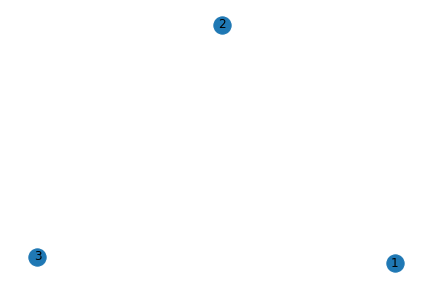
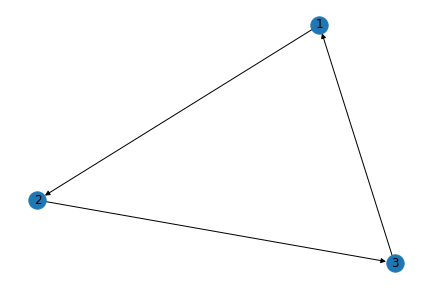
better styling and formatting

diff --git a/src/projects/networkAnalysis/ts/app.tsx b/src/projects/networkAnalysis/ts/app.tsx
@@ -22,76 +22,76 @@ import VisualCard from '@Main/projects/networkAnalysis/ts/visualcard';
 class Main extends React.Component {
 
   render() {
-    const mainFeaturedPost = {
-      title: 'Network Analysis',
-      description:
-        "A Beginner's Guide To What It Is, How To Implement, and Why It Matters",
-      image: 'https://miro.medium.com/max/4800/1*bgVMjq95tEVbBKYqL7AGxA.png',
-      imgText: 'main image description',
-    };
-
     const textPosts = [
       {
         title: 'What is a Node?',
         code: 'import networkx as nx \n import matplotlib.pyplot as plt \n g = nx.Graph() \n g.add_node(1) \n nx.draw(g)',
         image: node,
-        description: 'A node (or vertex) is the most fundamental unit on which graphs are based. In graph theory, they may also be referred to as "point", "junction", or "0 - simplex". This single datapoint could be interpreted in different ways depending on the context. If you were to consider a network of the human race, each node would be a person. For the network of webpages on the world wide web, each node would be a webpage. A node could also represent a single train station in a somewhat complex railway network. It is important to note that while we typically consider a node to be the fundamental unit of graphs, each node itself could contain a lot of information. In a social network, where each node represents a person, each node is a user profile comprised of data about the user\'s gender, age, contact information, their preferences, and other information they have made public.',
+        description: <Typography><b>Technical Description</b><br />A node (or vertex) is the most fundamental unit on which graphs are based. In graph theory, they may also be referred to as "point", "junction", or "0 - simplex". <br /><br /><b>Real-World Relevance</b><br />This single datapoint could be interpreted in different ways depending on the context. If you were to consider a network of the human race, each node would be a person. For the network of webpages on the world wide web, each node would be a webpage. A node could also represent a single train station in a somewhat complex railway network. It is important to note that while we typically consider a node to be the fundamental unit of graphs, each node itself could contain a lot of information. In a social network, where each node represents a person, each node is a user profile comprised of data about the user's gender, age, contact information, their preferences, and other information they have made public.</Typography>,
       },
       {
         title: 'Edges',
         code: 'g_directed = nx.DiGraph() \n g_directed.add_edge(1, 2) \n g_directed.add_edge(2, 3) \n nx.draw(g_directed, with_labels = True,)',
         image: directedge,
-        description: 'The links with which two nodes are connected to each other are called edges. In this case, for example, there are 3 nodes and 2 edges (one connects Node 1 and Node 2, and the other connects Node 2 and Node 3). The nodes that an edge connects are called neighbors. Note that Node 1 and Node 3 aren\'t neighbors with each other here. Broadly, we can have either undirected or directed graphs based on the context. In directed graphs, a node connects to another with a directed edge, indicating an asymmetric relationship. ',
+        description: <Typography><b>Technical Description</b><br />The links with which two nodes are connected to each other are called edges. In this case, for example, there are 3 nodes and 2 edges (one connects Node 1 and Node 2, and the other connects Node 2 and Node 3). The nodes that an edge connects are called <b>neighbors</b>. Note that Node 1 and Node 3 aren't neighbors with each other here. Broadly, we can have either <b>undirected</b> or <b>directed</b> graphs based on the context. In directed graphs (to the right), a node connects to another with a <b>directed edge</b>, indicating an asymmetric relationship.</Typography>,
       },
+
       {
-        title: 'Edges',
+        title: '',
         code: 'g.add_edge(1, 2) \n g.add_edge(2, 3) \n nx.draw(g, with_labels = True)',
         image: edge,
-        description: 'In the case of undirected graphs, an undirected edge implies a symmetric relationship between the two nodes it connects.An edge implies a relationship between the two entities, which are repsented by nodes. In a social network, for example, an edge could imply a connection between two people. The nuance of directed and undirected graphs gives us a convenient way to represent more complex information. For example, a directed graph would be more fitting if we were to represent a genealogy network - we can then direct edges from ancestors to their successors (since it is somewhat an asymmetric relationship). Even a social network, which you would typically represent as an undirected graph, could be represented as a directed graph if you were to consider who sent whom the friend/follow request first - this would add another interesting dimension to the problem.',
+        description: <Typography>In the case of undirected graphs (to the right), an undirected edge implies a symmetric relationship between the two nodes it connects.<br /><br /><b>Real-World Relevance</b><br />An edge implies a relationship between the two entities, which are repsented by nodes. In a social network, for example, an edge could imply a connection between two people. The nuance of directed and undirected graphs gives us a convenient way to represent more complex information. For example, a directed graph would be more fitting if we were to represent a genealogy network - we can then direct edges from ancestors to their successors (since it is somewhat an asymmetric relationship). Even a social network, which you would typically represent as an undirected graph, could be represented as a directed graph if you were to consider who sent whom the friend/follow request first - this would add another interesting dimension to the problem.</Typography>,
       },
       {
         title: 'Paths, Cycles, Connectivity',
         code: 'nx.draw(g, with_labels = True)',
         image: edge,
-        description: 'Path: A path is a sequence of nodes where "each consecutive pair in the sequence is connected with an edge" (Easley and Kleinberg, 2010). Broadly, if a path does not repeat any nodes, it is called a simple path. If it doesn\'t repeat any nodes, it is a non-simple path. In graph theory, a path is a trail in which all vertices (and edges) are distinct. In our example, there is a clear path from 1 to 3, and from 3 to 1 (via 2).',
+        description: <Typography><b>Technical Description</b><br /><b>Path:</b> A path is a sequence of nodes where "each consecutive pair in the sequence is connected with an edge" (Easley and Kleinberg, 2010). Broadly, if a path does not repeat any nodes, it is called a <b>simple path</b>. If it doesn't repeat any nodes, it is a <b>non-simple path</b>. In graph theory, a path is a trail in which all vertices (and edges) are distinct. In our example, there is a clear path from 1 to 3, and from 3 to 1 (via 2).</Typography>,
       },
       {
-        title: 'Paths, Cycles, Connectivity',
+        title: '',
         code: 'g_directed = nx.DiGraph() \n g_directed.add_edge(1, 2) \n g_directed.add_edge(2, 3) \n g_directed.add_edge(3, 1) \n nx.draw(g_directed, with_labels = True,)',
         image: cycle,
-        description: 'Cycle: A cycle is a non-simple path with "at-least three edges, in which the first and last nodes are the same, but otherwise all nodes are distinct" (Easley and Kleinberg, 2010). A cycle graph is a graph of a cycle which has no repeated vertices and edges (a simple cycle). The given visualization is an example of a cycle graph.',
+        description: <Typography><b>Cycle:</b> A cycle is a non-simple path with "at-least three edges, in which the first and last nodes are the same, but otherwise all nodes are distinct" (Easley and Kleinberg, 2010). A <b>cycle graph</b> is a graph of a cycle which has no repeated vertices and edges (a simple cycle). The given visualization is an example of a cycle graph.</Typography>,
       },
       {
-        title: 'Paths, Cycles, Connectivity',
+        title: '',
         code: 'g_dag = nx.DiGraph() \n g_dag.add_edge(1, 2) \n g_dag.add_edge(2, 3) \n g_dag.add_edge(3, 4) \n nx.draw(g_dag, with_labels = True,)',
         image: dag,
-        description: 'A commonly-used concept is Directed Acyclical Graph (DAG), which is what the name implies - a graph that is acyclical in nature (does not have the same first and last nodes) and has directed edges. The given visualization represents a simple DAG with four nodes (1, 2, 3, 4). Connectivity: A graph is said to be connected "if for every pair of nodes, there is a path between them" (Easley and Kleinberg, 2010). In other words, there is a way to get from each node to each other node (regardless of how simple or complex that route may be). Paths and connectivity could be understood together. If we wanted to see if two nodes are connected, we could check if there exists a path between them. Consider the case of a police chasing a criminal on the run - traditionally, they would not be connected with the criminal and their job is to find a path (the shortest, most efficient one) to the criminal. They would conduct an investigation, find who are closest to the criminal (the end node), and trace back connections to one they could directly inquire. As soon as they find a link with the criminal, they are then connected to the criminal in the sense of a network, and can pursue the path. In short, unless they are connected to the end node, they do not have a viable path to pursue. Directed acylical graphs are also easy to understand in context of your daily lives. For example, consider what you have done today - likely, you brushed your teeth after you woke up, after which you probably (hopefully) had breakfast. This can be represented as a DAG, since each subsequent event (or node) has a dependency on the previous one. You can only brush your teeth after you woke up, and so you would draw a directed edge from "waking up" to "brushing teeth".',
+        description: <Typography>A commonly-used concept is <b>Directed Acyclical Graph (DAG)</b>, which is what the name implies - a graph that is acyclical in nature (does not have the same first and last nodes) and has directed edges. The given visualization represents a simple DAG with four nodes (1, 2, 3, 4). <b>Connectivity:</b> A graph is said to be <b>connected</b> "if for every pair of nodes, there is a path between them" (Easley and Kleinberg, 2010). In other words, there is a way to get from each node to each other node (regardless of how simple or complex that route may be). <br /><br /><b>Real-World Relevance</b><br />Paths and connectivity could be understood together. If we wanted to see if two nodes are connected, we could check if there exists a path between them. Consider the case of a police chasing a criminal on the run - traditionally, they would not be connected with the criminal and their job is to find a path (the shortest, most efficient one) to the criminal. They would conduct an investigation, find who are closest to the criminal (the end node), and trace back connections to one they could directly inquire. As soon as they find a link with the criminal, they are then connected to the criminal in the sense of a network, and can pursue the path. In short, unless they are connected to the end node, they do not have a viable path to pursue. Directed acylical graphs are also easy to understand in context of your daily lives. For example, consider what you have done today - likely, you brushed your teeth after you woke up, after which you probably (hopefully) had breakfast. This can be represented as a DAG, since each subsequent event (or node) has a dependency on the previous one. You can only brush your teeth after you woke up, and so you would draw a directed edge from "waking up" to "brushing teeth".</Typography>,
       },
       {
         title: 'Distance of Six Degrees of Separation',
         code: 'nx.draw(g, with_labels = True)',
         image: edge,
-        description: 'Distance: The distance between any two nodes in a graph is the "length of the shortest path between them" (Easley and Kleinberg, 2010). In our example, there the distance from node 1 to node 3 is 2. Sometimes, however, graphs are more complex and it is harder to compute the distance - this is where Breadth First Search and Depth First Search are useful. As the access to internet improves worldwide, the world is more connected than ever. Therefore, the idea of "six degrees of separation" is more relevant than ever. This idea states that all people are at-most six social connections away from each other. While the notion grew out of Stanley Milgram\'s work in the 1960s, a lot of work has been done on the subject since.',
+        description: <Typography><b>Technical Description</b><br /><b>Distance:</b> The distance between any two nodes in a graph is the "length of the shortest path between them" (Easley and Kleinberg, 2010). In our example, there the distance from node 1 to node 3 is 2. Sometimes, however, graphs are more complex and it is harder to compute the distance - this is where <b>Breadth First Search</b> and <b>Depth First Search</b> are useful. <br /><br /> <b>Real-World Relevance</b><br />As the access to internet improves worldwide, the world is more connected than ever. Therefore, the idea of <b>"six degrees of separation"</b> is more relevant than ever. This idea states that all people are at-most six social connections away from each other. While the notion grew out of Stanley Milgram's work in the 1960s, <a href="https://hbr.org/2003/02/the-science-behind-six-degrees">a lot of work</a> has been done on the subject since.</Typography>,
       },
       {
         title: 'Triadic Closure',
+        code: 'nx.draw(g, with_labels = True)',
+        image: edge,
+        description: <Typography><b>Technical Description</b><br /><b>Triadic Closure:</b> The Triadic Closure principle underlines the evolving nature of networks, and states the following: "If two people in a social network have a friend in common, then there is an increased likelihood that they will become friends themselves at some point in the future" (Easley and Kleinberg, 2010). In our example, the Triadic Closure Principle hypothesizes that if 2 is friends with both 1 and 3, there is an increased likelihood that 1 and 3 would also be friends. This is displayed in the second iteration (triangular-looking closed graph - hence the name "triadic closure") of the same group of nodes. "Triadic closure is intuitively very natural, and essentially everyone can find examples from their own experience. Moreover, experience suggests some of the basic reasons why it operates. One reason why B and C are more likely to become friends, when they have a common friend A, is simply based on the opportunity for B and C to meet: if A spends time with both B and C, then there is an increased chance that they will end up knowing each other and potentially becoming friends. A second, related reason is that in the process of forming a friendship, the fact that each of B and C is friends with A (provided they are mutually aware of this) gives them a basis for trusting each other that an arbitrary pair of unconnected people might lack." (Easley and Kleinberg, 2010).</Typography>,
+      },
+      {
+        title: '',
         code: 'g.add_edge(1, 3) \n nx.draw(g, with_labels = True)',
         image: closure,
-        description: 'Distance: The Triadic Closure principle underlines the evolving nature of networks, and states the following: "If two people in a social network have a friend in common, then there is an increased likelihood that they will become friends themselves at some point in the future" (Easley and Kleinberg, 2010). In our example, the Triadic Closure Principle hypothesizes that if 2 is friends with both 1 and 3, there is an increased likelihood that 1 and 3 would also be friends. This is displayed in the second iteration (triangular-looking closed graph - hence the name "triadic closure") of the same group of nodes. "Triadic closure is intuitively very natural, and essentially everyone can find examples from their own experience. Moreover, experience suggests some of the basic reasons why it operates. One reason why B and C are more likely to become friends, when they have a common friend A, is simply based on the opportunity for B and C to meet: if A spends time with both B and C, then there is an increased chance that they will end up knowing each other and potentially becoming friends. A second, related reason is that in the process of forming a friendship, the fact that each of B and C is friends with A (provided they are mutually aware of this) gives them a basis for trusting each other that an arbitrary pair of unconnected people might lack." (Easley and Kleinberg, 2010).',
+        description: <Typography><b>Real-World Relevance</b><br />"Triadic closure is intuitively very natural, and essentially everyone can find examples from their own experience. Moreover, experience suggests some of the basic reasons why it operates. One reason why B and C are more likely to become friends, when they have a common friend A, is simply based on the opportunity for B and C to meet: if A spends time with both B and C, then there is an increased chance that they will end up knowing each other and potentially becoming friends. A second, related reason is that in the process of forming a friendship, the fact that each of B and C is friends with A (provided they are mutually aware of this) gives them a basis for trusting each other that an arbitrary pair of unconnected people might lack." (Easley and Kleinberg, 2010).</Typography>,
       },
       {
         title: 'Measures of Centrality',
         code: 'g3 = nx.Graph() \n g3.add_node(1) \n g3.add_node(2) \n g3.add_node(3) \n g3.add_node(4) \n g3.add_node(5) \n g3.add_node(6) \n g3.add_node(7) \n g3.add_edge(1, 3) \n g3.add_edge(2, 3) \n g3.add_edge(3, 4) \n g3.add_edge(4, 5) \n g3.add_edge(5, 6) \n g3.add_edge(5, 7) \n g3.add_edge(7, 6) \n nx.draw(g3, with_labels = True)',
         image: centrality,
-        description: 'Degree Centrality: The degree centrality of a node refers to the number of edges that are attached to that node. This score can be standardized by dividing the score for each node by n - 1, where n is the total number of nodes in the network. Let\'s consider node 5 in the graph below. There are 3 edges connected to the node, and 7 nodes in the graph in total. Therefore, the standardized degree centrality for node 5 is 3/(7-1) = 0.5. Betweenness Centrality: The betweenness centrality of a node refers to the number of times that node lies on the shortest path between other nodes. This score can be standardized by dividing these scores by (n-1)(n-2)/2 (for undirected graphs) for each node, where n is the total number of nodes in the network. Closeness Centrality: The closeness centrality of a node depends on the sum of its shortest paths to all other nodes. In mathematical terms, it is the inverse of the sum of shortest paths of a node to all other nodes). It can be standardized by multiplying the result by n - 1, where n is the total number of nodes in the network. In our graph below, the standardized score for the closeness centrality of node 5 is 1/11 * (7 - 1) = 6/11.',
+        description: <Typography><b>Technical Description</b><br /><b>Degree Centrality:</b> The degree centrality of a node refers to the number of edges that are attached to that node. This score can be standardized by dividing the score for each node by n - 1, where n is the total number of nodes in the network. Let's consider node 5 in the graph below. There are 3 edges connected to the node, and 7 nodes in the graph in total. Therefore, the standardized degree centrality for node 5 is 3/(7-1) = 0.5. <br /><br /><b>Betweenness Centrality:</b> The betweenness centrality of a node refers to the number of times that node lies on the shortest path between other nodes. This score can be standardized by dividing these scores by (n-1)(n-2)/2 (for undirected graphs) for each node, where n is the total number of nodes in the network. <br /><br /><b>Closeness Centrality:</b> The closeness centrality of a node depends on the sum of its shortest paths to all other nodes. In mathematical terms, it is the inverse of the sum of shortest paths of a node to all other nodes). It can be standardized by multiplying the result by n - 1, where n is the total number of nodes in the network. In our graph below, the standardized score for the closeness centrality of node 5 is 1/11 * (7 - 1) = 6/11.</Typography>,
       },
       {
         title: 'Embeddedness',
         code: 'g4 = nx.Graph() \n g4.add_node(2) \n g4.add_node(3) \n g4.add_node(4) \n g4.add_node(5) \n g4.add_node(6) \n g4.add_node(7) \n g4.add_edge(5, 3) \n g4.add_edge(2, 5) \n g4.add_edge(3, 7) \n g4.add_edge(4, 6) \n g4.add_edge(5, 7) \n g4.add_edge(5, 4) \n g4.add_edge(7, 2) \n nx.draw(g4, with_labels = True)',
         image: embeddedness,
-        description: 'Embeddedness: The embeddedness of an edge refers to the number of common neighbors that the two nodes at the end of the edge have. (Easley and Kleinberg, 2010). In our example, nodes 5 and 7 have both node 3 and node 2 in common. Therefore, the embeddedness of the A-B edge is 2. "A long line of research in sociology has argued that if two individuals are connected by an embedded edge, then this makes it easier for them to trust one another, and to have confidence in the integrity of the transactions (social, economic, or otherwise) that take place between them. Indeed, the presence of mutual friends puts the interactions between two people “on display” in a social sense, even when they are carried out in private; in the event of misbehavior by one of the two parties to the interaction, there is the potential for social sanctions and reputational consequences from their mutual friends...No similar kind of deterring threat exists for edges with zero embeddedness, since there is no one who knows both people involved in the interaction. " (Easley and Kleinberg, 2010).',
+        description: <Typography><b>Technical Description</b><br /><b>Embeddedness:</b> The embeddedness of an edge refers to the number of common neighbors that the two nodes at the end of the edge have. (Easley and Kleinberg, 2010). In our example, nodes 5 and 7 have both node 3 and node 2 in common. Therefore, the embeddedness of the A-B edge is 2. <br /><br /><b>Real-World Relevance</b><br />"A long line of research in sociology has argued that if two individuals are connected by an embedded edge, then this makes it easier for them to trust one another, and to have confidence in the integrity of the transactions (social, economic, or otherwise) that take place between them. Indeed, the presence of mutual friends puts the interactions between two people “on display” in a social sense, even when they are carried out in private; in the event of misbehavior by one of the two parties to the interaction, there is the potential for social sanctions and reputational consequences from their mutual friends...No similar kind of deterring threat exists for edges with zero embeddedness, since there is no one who knows both people involved in the interaction. " (Easley and Kleinberg, 2010).</Typography>,
       },
     ];
+
     return <MainBase NavbarItems={[]}>
       <div>
         <Container className={style.container} maxWidth="lg">
@@ -126,19 +126,78 @@ class Main extends React.Component {
                       Network Analysis
                     </Typography>
                     <Typography className={style.whitetext} variant="h5" paragraph>
-                      A Beginner's Guide To What It Is, How To Implement, and Why It Matters
+                      A Beginner's Guide To What It Is, How To Implement It, and Why It Matters
                   </Typography>
                   </div>
                 </Grid>
               </Grid>
             </Paper>
+            <Grid className={style.gridspacing} container spacing={4}>
+              <div className={style.intro}>
+                <Typography component="h2" variant="h5">
+                  <b>Things to Know Before Reading</b>
+                </Typography>
+                <Typography>
+                  <br />
+                  Just to be transparent with what this tutorial aims to accomplish, this is by no means a comprehensive
+                  tutorial over networks. This tutorial aims to introduce to beginners the concept of networks, some
+                  important and common terminology, as well as some code to get you started with the proper directions
+                  to explore the vast world of networks on your own. Each of the sections below have a text and code toggle
+                  for you to examine the code used to make these simple network graphs. The Python library used here is
+                  networkx (
+                    <a href="https://networkx.github.io/documentation/stable/">documentation can be found here</a>
+                    ). D3.js is also a popular language for making beautiful and dynamic network graphs (and
+                    visualizations in general) but can be slightly trickier to learn. Enjoy the tutorial and stick
+                    around at the end for further recommended resources!
+                </Typography>
+              </div>
+            </Grid>
             {textPosts.map((post) => (
               <Grid className={style.gridspacing} container spacing={4}>
                 <TextCard post={post} />
                 <VisualCard post={post} />
               </Grid>
-            ))};
-
+            ))}
+            <Grid className={style.gridspacing} container spacing={4}>
+              <div className={style.intro}>
+                <Typography component="h2" variant="h5">
+                  <b>Resources and Final Words</b>
+                </Typography>
+                <Typography>
+                  Here are some useful resources to continue learning about network analysis: <br />
+                  <li>
+                    <a href="https://www.datacamp.com/community/tutorials/social-network-analysis-python">A more comprehensive
+                    overview of the basics with a wider array of examples of code</a>
+                  </li>
+                  <li>
+                    <a href="https://www.databentobox.com/2019/07/28/facebook-friend-graph/">A neat side project for visualizing
+                    a network graph of your Facebook friends</a>
+                  </li>
+                  <li>
+                    <a href="https://www.jessesadler.com/post/network-analysis-with-r/">Learn how to make network graphs in R</a>
+                  </li>
+                  <li>
+                    <a href="https://livebook.manning.com/book/d3js-in-action-second-edition/chapter-7/48">Learn how to make network graphs in D3</a>
+                  </li>
+                  <br /> <b>References Used in This Tutorial:</b> <br />
+                  <li>
+                    Easley, David, and Jon Kleinberg. <a href="https://www.cs.cornell.edu/home/kleinber/networks-book/">Networks, crowds, and markets.</a> Vol. 8. Cambridge: Cambridge university press, 2010.
+                  </li>
+                  <li>
+                    Weisstein, Eric W. "Graph Vertex." From MathWorld--A Wolfram Web Resource. <a href="https://mathworld.wolfram.com/GraphVertex.html">https://mathworld.wolfram.com/GraphVertex.html</a>
+                  </li>
+                  <li>
+                    Bender, Edward A., and S. Gill Williamson. <a href="https://books.google.co.in/books?hl=en&lr=&id=vaXv_yhefG8C&oi=fnd&pg=PA1&dq=Lists,+Decisions+and+Graphs&ots=b_P5iXzrEc&sig=F8qCrg5rYiFuxrv_j8hwAn3sk0o&redir_esc=y#v=onepage&q=Lists%2C%20Decisions%20and%20Graphs&f=false"> Lists, Decisions and Graphs</a>. S. Gill Williamson, 2010.
+                  </li>
+                  <li>
+                    Morse, Gardiner.<a href="https://hbr.org/2003/02/the-science-behind-six-degrees">The Science Behind Six Degrees</a>. Harvard Business Review, 2003.
+                  </li>
+                  <li>
+                    Watabe, Motoki. <a href="https://www.sscnet.ucla.edu/soc/faculty/mcfarland/soc112/cent-ans.htm">https://www.sscnet.ucla.edu/soc/faculty/mcfarland/soc112/cent-ans.htm</a>. 1998.
+                  </li>
+                </Typography>
+              </div>
+            </Grid>
           </main>
         </Container>
       </div>

diff --git a/src/projects/networkAnalysis/ts/textcard.tsx b/src/projects/networkAnalysis/ts/textcard.tsx
@@ -47,38 +47,35 @@ export default function TextCard(props) {
   const explainText = (open: boolean) => {
     if (open) return null;
     return (
-      <Typography variant="subtitle1" paragraph>
+      <div>
         {post.description}
-      </Typography>
+      </div>
     );
   };
   return (
-    <Card className={style.explanations} >
-
-      <CardContent className={style.explanations}>
-        <Grid container xs={12}>
-          <Grid item xs={9}>
-            <Typography component="h2" variant="h5">
-              {post.title}
-            </Typography>
-          </Grid>
-          <Grid item xs={3}>
-            <Button onClick={revealText}>
-              <TextFieldsIcon />
-            </Button>
-            <Button onClick={revealCode}>
-              <CodeIcon />
-            </Button>
-          </Grid>
+    <div className={style.explanations} >
+      <Grid container xs={12}>
+        <Grid item xs={9}>
+          <Typography component="h2" variant="h5">
+            <b>{post.title}</b>
+          </Typography>
         </Grid>
+        <Grid item xs={3}>
+          <Button onClick={revealText}>
+            <TextFieldsIcon />
+          </Button>
+          <Button onClick={revealCode}>
+            <CodeIcon />
+          </Button>
+        </Grid>
+      </Grid>
 
-        <div className={style.textspacing}>
-          {explainText(open)}
-          {codeText(open)}
+      <div className={style.textspacing}>
+        {explainText(open)}
+        {codeText(open)}
 
-        </div>
-      </CardContent>
-    </Card >
+      </div>
+    </div >
   );
 }
 

diff --git a/src/projects/networkAnalysis/styles/Tutorial.module.css b/src/projects/networkAnalysis/styles/Tutorial.module.css
@@ -1,11 +1,21 @@
 .explanations {
-  height: 400px;
+  height: 350px;
   flex: 1;
   overflow: auto;
+  margin-left: 20px;
+  width: 550px;
+}
+
+.intro {
+  min-height: 200px;
+  flex: 1;
+  overflow: auto;
+  margin-left: 20px;
+  margin-right: 20px;
 }
 
 .container {
-  background-color: black;
+  background-color: white;
 }
 
 .footer {
@@ -21,10 +31,26 @@
   visibility: hidden;
 }
 
-.gridspacing {
-  padding-bottom: 80px;
-}
-
 .textspacing {
   padding-top: 10px;
+}
+
+.gridspacing {
+  padding-bottom: 60px;
+}
+
+
+.vis {
+  display: inline-block;
+  position: fixed;
+  top: 400px;
+  z-index: 1;
+  margin-left: 0;
+}
+.sections {
+  position: relative;
+  display: inline-block;
+  width: 600px;
+  top: 0px;
+  z-index: 90;
 }
